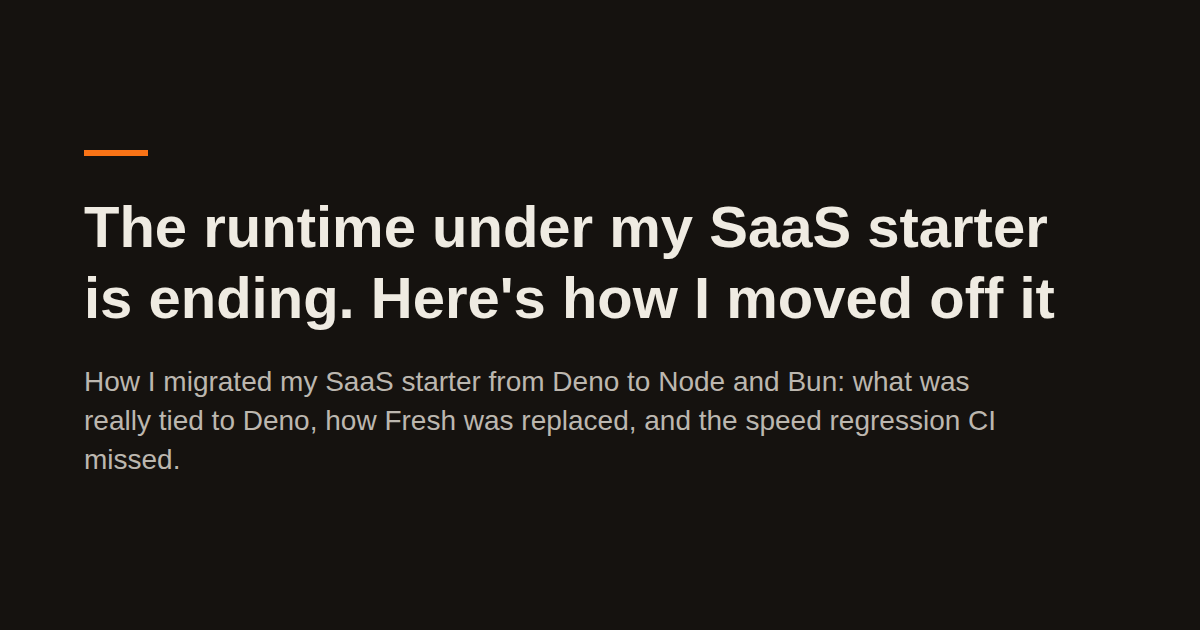
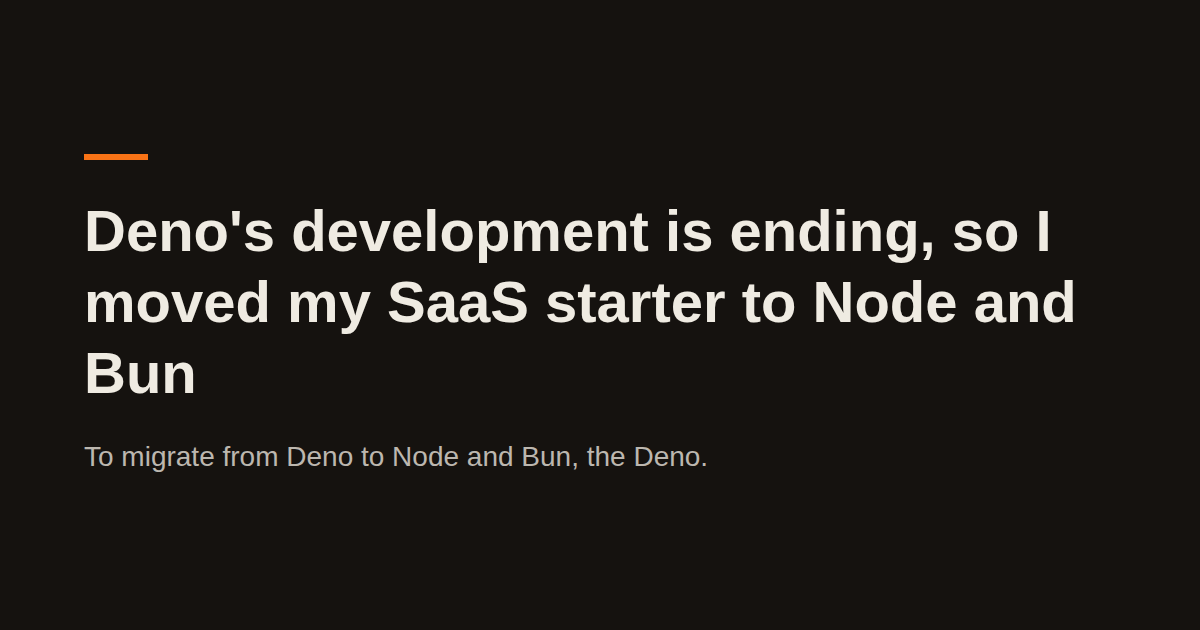
docs(blog): apply review fixes to the Deno post
Corrects the Deno.Command row, names where the numbers come from, retitles the post, states both trap fixes, links the redirect test, gives the audit's price and scope, and announces only the checklist's summary.

Changed region(s): [[0.0617, 0.3317, 0.8942, 0.5429], [0.0617, 0.5429, 0.8325, 0.754], [0.0617, 0.2111, 0.1233, 0.2714]]

diff --git a/islands/DenoTiesChecklist.tsx b/islands/DenoTiesChecklist.tsx
@@ -75,10 +75,9 @@ export default function DenoTiesChecklist({ post }: { post: string }) {
         </fieldset>
         <div
           class="flex flex-col gap-3 border-t border-rule pt-5 text-sm text-parchment"
-          aria-live="polite"
           data-result
         >
-          <p class="font-semibold">{result.summary}</p>
+          <p class="font-semibold" aria-live="polite">{result.summary}</p>
           {result.rows.length > 0 && (
             <dl class="flex flex-col gap-3">
               {result.rows.map((t) => (

diff --git a/lib/deno-ties.ts b/lib/deno-ties.ts
@@ -85,7 +85,7 @@ export const DENO_TIES: readonly DenoTie[] = [
     "command",
     true,
     "`Deno.Command`",
-    "Nothing: only the screenshot, video and changelog scripts use it, and they stay on Deno.",
+    "Nothing: only the dev, deploy and media scripts use it, and they stay on Deno.",
   ),
   tie(
     "toolchain",

diff --git a/content/blog/migrate-from-deno-to-node-and-bun.md b/content/blog/migrate-from-deno-to-node-and-bun.md
@@ -1,7 +1,7 @@
 ---
-title: "The runtime under my SaaS starter is ending. Here's how I moved off it"
-seoTitle: "Migrate from Deno to Node and Bun: a real codebase"
-description: "How I migrated my SaaS starter from Deno to Node and Bun: what was really tied to Deno, how Fresh was replaced, and the speed regression CI missed."
+title: "Deno's development is ending, so I moved my SaaS starter to Node and Bun"
+seoTitle: "Migrate from Deno to Node and Bun: what was really hard"
+description: "To migrate from Deno to Node and Bun, the Deno.* calls are the easy part. What was hard in my SaaS starter, how I replaced Fresh, and what CI missed."
 tldr:
   - "The `Deno.*` calls were not the hard part. Serving files, Deno types in public signatures and Fresh's internals were."
   - "I replaced Fresh by copying its API: 419 of 423 responses came out identical, and every page shipped less JavaScript."
@@ -25,9 +25,10 @@ that for [Seed](/blog/seed-saas-starter), the SaaS starter every new project of
 mine starts from. The pull requests that finished it merged on 4 November 2026.
 
 This post is for a developer or a tech lead with a Deno codebase who read the
-news and now has to decide: stay, fork or move. It shows what was really tied to
-Deno in a tested codebase, what replaced each piece, and the mistake I shipped
-on the way.
+news and now has to decide: stay, fork or move. Short version of the worry "my
+code is full of `Deno.*`": those calls were the easy part. It shows what was
+really tied to Deno in a tested codebase, what replaced each piece, and the
+mistake I shipped on the way.
 
 ## What happened to Deno?
 
@@ -144,17 +145,17 @@ I didn't rewrite the routes. I wrote a small layer that copies Fresh 2's API:
 with Vite and runs on web standards. It is
 [`@spy4x/preact-server`](https://github.com/spy4x/preact-components/pull/1187),
 1,459 lines of source and 919 lines of tests, part of my open-source component
-library. Because the API matched, Seed's 29 route files barely changed. Seed's
-side of the switch, [spy4x/seed#815](https://github.com/spy4x/seed/pull/815),
-touched 128 files and deleted more than it added: +562, −908.
+library. Because the API matched, Seed's route files barely changed. Seed's side
+of the switch, [spy4x/seed#815](https://github.com/spy4x/seed/pull/815), touched
+128 files and deleted more than it added: +562, −908.
 
 ### Did anything change for the visitor?
 
-To find out, I requested every route on both builds and compared the answers.
-419 of 423 responses were identical. Two of the four differences were one
-video's modification time and ETag. The other two were the malformed path
-`/%E0%A4%A`: Fresh answered with a bare 500, the new layer answers with the
-site's 404 page.
+To find out, I requested every route on both builds and compared the answers
+([spy4x/seed#623](https://github.com/spy4x/seed/issues/623)). 419 of 423
+responses were identical. Two of the four differences were one video's
+modification time and ETag. The other two were the malformed path `/%E0%A4%A`:
+Fresh answered with a bare 500, the new layer answers with the site's 404 page.
 
 The pages also got lighter. Gzipped JavaScript per page, Lighthouse mobile, 22
 pages, median of 3 runs:
@@ -178,7 +179,9 @@ Two things got better:
   still runs on Fresh, and its CSP code reads Fresh's private nonce. That is
   exactly the kind of internal I don't want to depend on.
 - **Safer redirects.** `ctx.redirect()` keeps `/\host` and `/<tab>/host` on the
-  site. Fresh lets both through to another host.
+  site
+  ([the test](https://github.com/spy4x/preact-components/blob/6d5082cfa45b5ce19fbb3e6f351b8c2874e475de/server/app.test.tsx#L130-L137)).
+  Fresh lets both through to another host.
 
 And four things Fresh has that the layer doesn't: `csrf()` middleware (a
 same-origin check from my shared library does the job), `_404` and `_500`
@@ -236,8 +239,10 @@ added the Node and Bun start files, their Docker images and a CI smoke test that
 builds the site and runs it on all three runtimes. 27 files, +768, −212.
 
 Two surprises came with it. Adding `"type": "module"` to the root `package.json`
-broke Playwright under Deno. And in CI, the new smoke test and the browser tests
-raced each other on `vapid.json` and the build folders.
+broke Playwright under Deno. The fix was to leave the field out: that file only
+hands `npm run` and `bun run` over to `deno task`. And in CI, the new smoke test
+and the browser tests raced each other on `vapid.json` and the build folders.
+The fix: the smoke test now runs in its own copy of the checkout.
 
 ![The Domino Effect meme: a man tips the smallest domino, labelled "\"type\": \"module\"", towards the biggest one, labelled "Playwright under Deno"](/img/blog/migrate-from-deno-to-node-and-bun/domino.webp "One line of JSON, one red pipeline")
 
@@ -259,8 +264,9 @@ out. Now a coordinator continues a stopped session's work itself.
 
 ![The Monkey Puppet meme: the puppet glances sideways, then looks away. Caption: "My coordinator after forwarding a half-done session's report"](/img/blog/migrate-from-deno-to-node-and-bun/monkey.webp "Very helpful. Thank you for the report.")
 
-An agent also drafted this post from those pull requests and measurements; every
-number above links back to one of them.
+An agent also drafted this post. Every number in it comes from a merged pull
+request or from the measurements in
+[spy4x/seed#623](https://github.com/spy4x/seed/issues/623).
 
 ## How tied to Deno is your project?
 
@@ -278,7 +284,7 @@ Seed's; the last three Seed never had:
 | `Deno.connect`, such as a Redis client                     | Nothing: the client already ran over a `connectTcp` adapter, `Deno.connect` on Deno and `node:net` on Node and Bun.                                             |
 | Fresh                                                      | `@spy4x/preact-server`, a new layer that copies Fresh 2's API.                                                                                                  |
 | `jsr:` imports                                             | `deno bundle` builds them into the server file, so Node and Bun never see a `jsr:` import.                                                                      |
-| `Deno.Command`                                             | Nothing: only the screenshot, video and changelog scripts use it, and they stay on Deno.                                                                        |
+| `Deno.Command`                                             | Nothing: only the dev, deploy and media scripts use it, and they stay on Deno.                                                                                  |
 | `deno test`, `deno fmt`, `deno lint`                       | Nothing: the toolchain stays Deno. `npm run` and `bun run` call the same `deno task`s.                                                                          |
 | Deno KV                                                    | Never used: the data lives in Postgres and Valkey.                                                                                                              |
 | Deno Deploy                                                | Never used: Seed runs in Docker Compose on any Linux host.                                                                                                      |
@@ -309,8 +315,9 @@ make the switch cheap, then decide when you have to:
 
 If your product runs on Deno and you'd like a calm plan instead of a panicked
 rewrite, that is what my
-[code and security audit](/catalog/codebase-health-audit) is for. I go through
-your codebase, list every tie to Deno ranked by risk, and tell you what to move
+[code and security audit](/catalog/codebase-health-audit) is for: three days,
+from $1,500. It covers architecture, security and performance, and for a Deno
+codebase that includes every tie to Deno, ranked by risk, with what to move
 first and what to leave alone.
 
 And if you've already started your own move, tell me what bit you. I'd like to
